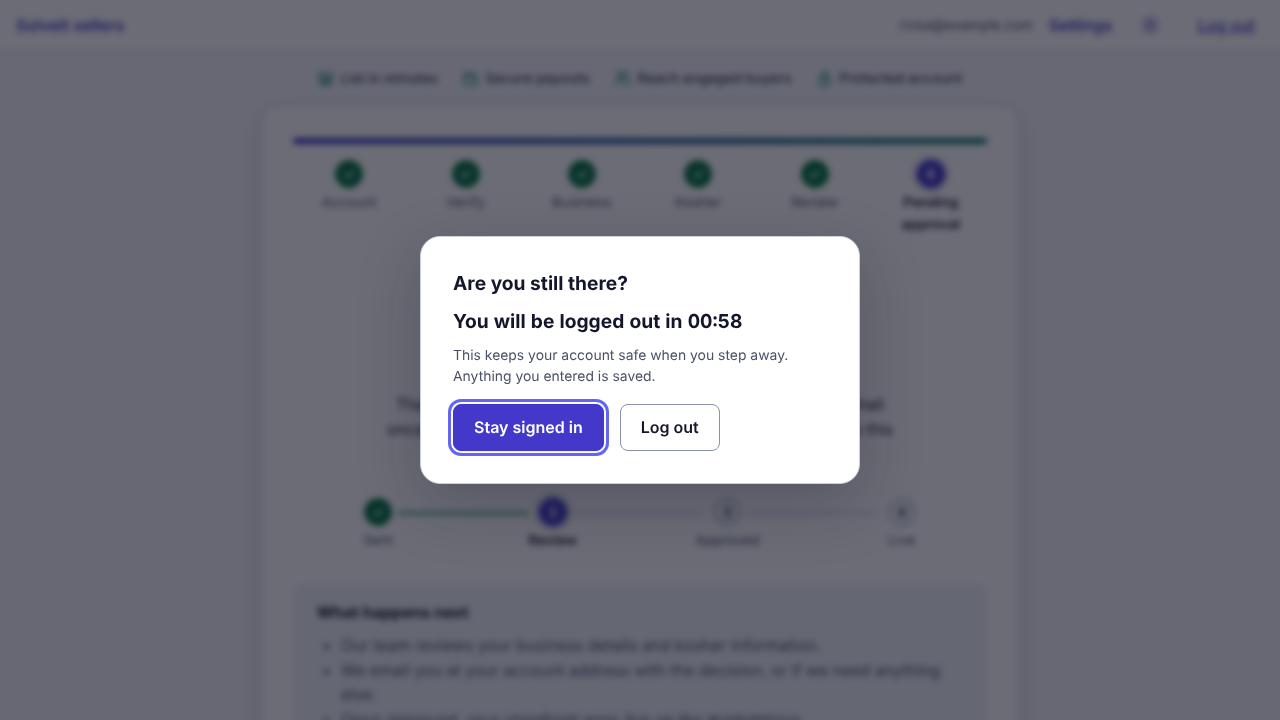
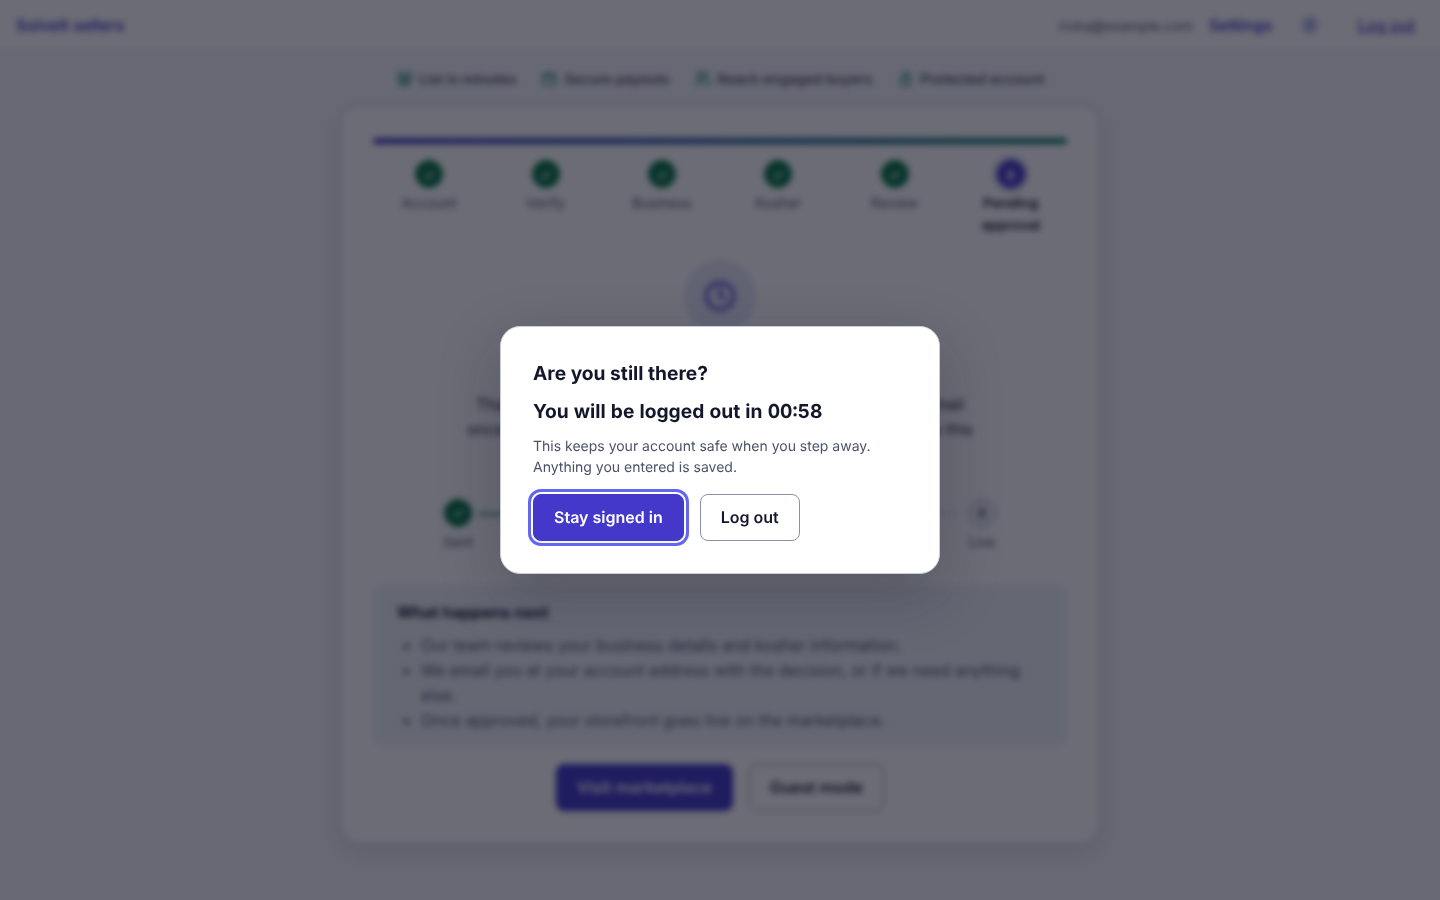
Review fixes: external theme script (CSP-safe), robust recovery-code download, error boundary for lazy routes, single header/toggle, forgot-password E2E race, pin uqr, extra screenshots
Claude-Session: https://claude.ai/code/session_018hZb8p3U4e1ZXzoHRqf6yf

diff --git a/e2e-ui/ui.spec.ts b/e2e-ui/ui.spec.ts
@@ -61,13 +61,15 @@ for (const [vp, size] of Object.entries(viewports)) {
         const { violations } = await new AxeBuilder({ page }).withTags(['wcag2a', 'wcag2aa', 'wcag21a', 'wcag21aa', 'wcag22aa']).analyze()
         const bad = violations.filter((v) => v.impact === 'serious' || v.impact === 'critical')
         expect(bad.map((v) => `${v.id}: ${v.nodes.map((n) => n.target.join(' ')).join(' | ')}`)).toEqual([])
-        if (SHOTS && theme === 'light') await page.screenshot({ path: `${SHOTS}/${s.name}-${vp}.png`, fullPage: true })
+        if (SHOTS && (theme === 'light' || ['login', 'signup', 'settings-security', 'pending'].includes(s.name)))
+          await page.screenshot({ path: `${SHOTS}/${s.name}-${vp}${theme === 'dark' ? '-dark' : ''}.png`, fullPage: true })
       })
     }
   }
 }
 
-test('idle-logout modal is accessible and shows a countdown', async ({ page }) => {
+for (const [vp, size] of Object.entries(viewports)) test(`idle-logout modal @${vp} is accessible and shows a countdown`, async ({ page }) => {
+  await page.setViewportSize(size)
   await page.emulateMedia({ reducedMotion: 'reduce' })
   await mock(page, { authed: true, status: 'PendingReview', config: { idleTimeoutMinutes: 1, warningSeconds: 59 } })
   await page.goto('/signup/pending')
@@ -76,15 +78,40 @@ test('idle-logout modal is accessible and shows a countdown', async ({ page }) =
   await expect(dlg).toContainText(/You will be logged out in 00:\d\d/)
   const { violations } = await new AxeBuilder({ page }).withTags(['wcag2a', 'wcag2aa', 'wcag22aa']).analyze()
   expect(violations.filter((v) => v.impact === 'serious' || v.impact === 'critical')).toEqual([])
-  if (SHOTS) await page.screenshot({ path: `${SHOTS}/idle-modal-desktop.png` })
+  if (SHOTS) await page.screenshot({ path: `${SHOTS}/idle-modal-${vp}.png` })
 })
 
-test('dark-mode toggle persists', async ({ page }) => {
+test('dark-mode toggle flips the theme and persists across reloads', async ({ page }) => {
+  await page.emulateMedia({ colorScheme: 'light' })
   await mock(page)
   await page.goto('/login')
+  const html = page.locator('html')
   await page.getByRole('button', { name: 'Dark mode' }).click()
-  await expect(page.locator('html')).toHaveAttribute('data-theme', /dark|light/)
-  const t = await page.locator('html').getAttribute('data-theme')
+  await expect(html).toHaveAttribute('data-theme', 'dark')
   await page.reload()
-  await expect(page.locator('html')).toHaveAttribute('data-theme', t!)
+  await expect(html).toHaveAttribute('data-theme', 'dark')
+  await page.getByRole('button', { name: 'Dark mode' }).click()
+  await expect(html).toHaveAttribute('data-theme', 'light')
+  await page.reload()
+  await expect(html).toHaveAttribute('data-theme', 'light')
+})
+
+// README CSP: script-src 'self' blocks inline scripts, so the saved theme must be applied by an external script.
+const README_CSP = "default-src 'self'; script-src 'self' https://challenges.cloudflare.com; frame-src https://challenges.cloudflare.com; connect-src 'self'; frame-ancestors 'none'"
+test('saved theme is applied under the README CSP (production build, no inline-script violations)', async ({ page }) => {
+  const blocked: string[] = []
+  page.on('console', (m) => { if (/Content Security Policy/i.test(m.text()) && /script/i.test(m.text())) blocked.push(m.text()) })
+  await page.emulateMedia({ colorScheme: 'light' })
+  await mock(page)
+  await page.route('http://localhost:4173/**', async (route) => {
+    if (route.request().resourceType() !== 'document') return route.fallback()
+    const res = await route.fetch()
+    await route.fulfill({ response: res, headers: { ...res.headers(), 'content-security-policy': README_CSP } })
+  })
+  await page.goto('http://localhost:4173/login')
+  await page.getByRole('button', { name: 'Dark mode' }).click()
+  await expect(page.locator('html')).toHaveAttribute('data-theme', 'dark')
+  await page.reload()
+  await expect(page.locator('html')).toHaveAttribute('data-theme', 'dark')
+  expect(blocked).toEqual([])
 })

diff --git a/src/components/review-fixes.test.tsx b/src/components/review-fixes.test.tsx
@@ -1,0 +1,68 @@
+import { lazy, Suspense } from 'react'
+import { fireEvent, render, screen } from '@testing-library/react'
+import { MemoryRouter } from 'react-router-dom'
+import { afterEach, describe, expect, it, vi } from 'vitest'
+import { AppHeaderContext, Shell, ThemeToggle } from './ui'
+import { ErrorBoundary } from './ErrorBoundary'
+import { RecoveryCodes } from '../pages/Settings'
+
+afterEach(() => { vi.restoreAllMocks(); vi.useRealTimers(); localStorage.clear(); delete document.documentElement.dataset.theme })
+
+describe('theme', () => {
+  it('applies the saved choice when the inline script has not set data-theme (CSP blocks it)', () => {
+    localStorage.setItem('solvelt-theme', 'dark')
+    delete document.documentElement.dataset.theme
+    render(<ThemeToggle />)
+    expect(document.documentElement.dataset.theme).toBe('dark')
+    expect(screen.getByRole('button', { name: 'Dark mode' })).toHaveAttribute('aria-pressed', 'true')
+  })
+})
+
+describe('recovery codes download', () => {
+  it('puts every code in the file, clicks an attached link and revokes the URL only afterwards', async () => {
+    vi.useFakeTimers()
+    const codes = ['AAAAA-11111', 'BBBBB-22222', 'CCCCC-33333']
+    let blob: Blob | undefined
+    const order: string[] = []
+    URL.createObjectURL = vi.fn((b: Blob) => { blob = b; return 'blob:test' })
+    URL.revokeObjectURL = vi.fn(() => { order.push('revoke') })
+    vi.spyOn(HTMLAnchorElement.prototype, 'click').mockImplementation(function (this: HTMLAnchorElement) {
+      order.push(document.body.contains(this) ? 'click-attached' : 'click-detached')
+    })
+    render(<RecoveryCodes codes={codes} onDone={() => {}} />)
+    fireEvent.click(screen.getByRole('button', { name: /Download/ }))
+    expect(order).toEqual(['click-attached'])
+    expect(URL.revokeObjectURL).not.toHaveBeenCalled()
+    vi.advanceTimersByTime(1000)
+    expect(order).toEqual(['click-attached', 'revoke'])
+    vi.useRealTimers() // FileReader needs real timers
+    const text = await new Promise<string>((res) => { const r = new FileReader(); r.onload = () => res(String(r.result)); r.readAsText(blob!) })
+    for (const c of codes) expect(text).toContain(c)
+    expect(document.querySelector('a[download]')).toBeNull() // cleaned up
+  })
+})
+
+describe('error boundary', () => {
+  it('shows a Reload fallback when a lazy route chunk fails to load', async () => {
+    vi.spyOn(console, 'error').mockImplementation(() => {})
+    const Broken = lazy(() => Promise.reject(new Error('Failed to fetch dynamically imported module')))
+    render(<ErrorBoundary><Suspense fallback="loading"><Broken /></Suspense></ErrorBoundary>)
+    expect(await screen.findByRole('button', { name: 'Reload' })).toBeInTheDocument()
+    expect(screen.getByRole('alert')).toHaveTextContent(/could not load/i)
+  })
+})
+
+describe('signed-in layout', () => {
+  const shell = (inHeader: boolean) => render(
+    <MemoryRouter><AppHeaderContext.Provider value={inHeader}><Shell><p>x</p></Shell></AppHeaderContext.Provider></MemoryRouter>)
+  it('renders one theme toggle and one logo under the app header', () => {
+    shell(true)
+    expect(screen.queryByRole('button', { name: 'Dark mode' })).toBeNull()
+    expect(screen.queryByRole('link', { name: 'Solvelt home' })).toBeNull()
+  })
+  it('renders them in the public shell', () => {
+    shell(false)
+    expect(screen.getAllByRole('button', { name: 'Dark mode' })).toHaveLength(1)
+    expect(screen.getAllByRole('link', { name: 'Solvelt home' })).toHaveLength(1)
+  })
+})

diff --git a/src/components/ui.tsx b/src/components/ui.tsx
@@ -1,4 +1,4 @@
-import { Children, forwardRef, useEffect, useId, useState, type ButtonHTMLAttributes, type InputHTMLAttributes, type ReactNode } from 'react'
+import { Children, createContext, forwardRef, useContext, useEffect, useId, useState, type ButtonHTMLAttributes, type InputHTMLAttributes, type ReactNode } from 'react'
 import { Link, useLocation } from 'react-router-dom'
 import { passwordChecks } from '../lib/password'
 
@@ -86,9 +86,12 @@ export function Icon({ name, label }: { name: IconName; label?: string }) {
 
 /* ---- theme (system by default, manual override persisted) ---- */
 const systemDark = () => typeof matchMedia === 'function' && matchMedia('(prefers-color-scheme: dark)').matches
+function savedTheme(): 'light' | 'dark' | null {
+  try { const t = localStorage.getItem('solvelt-theme'); return t === 'light' || t === 'dark' ? t : null } catch { return null }
+}
 export function ThemeToggle() {
   const [dark, setDark] = useState(() => {
-    const t = document.documentElement.dataset.theme
+    const t = document.documentElement.dataset.theme ?? savedTheme()
     return t ? t === 'dark' : systemDark()
   })
   useEffect(() => {
@@ -110,9 +113,13 @@ export function Logo() {
   return <Link to="/" className="logo" aria-label="Solvelt home"><span className="logo-mark"><Icon name="shield" /></span><span>Solvelt</span></Link>
 }
 
+/** True inside the signed-in layout, which renders its own header (so Shell must not add a second logo + theme toggle). */
+export const AppHeaderContext = createContext(false)
+
 /** Page shell: brand panel (desktop, auth screens) + top bar with theme toggle. */
 export function Shell({ children, split }: { children: ReactNode; split?: boolean }) {
   const { pathname } = useLocation()
+  const hasAppHeader = useContext(AppHeaderContext)
   const cross = !split ? null : pathname.startsWith('/signup') ? { q: 'Already selling?', to: '/login', t: 'Sign in' } : pathname === '/login' ? { q: 'New to Solvelt?', to: '/signup', t: 'Start selling' } : null
   return (
     <div className={split ? 'shell split' : 'shell'}>
@@ -139,7 +146,7 @@ export function Shell({ children, split }: { children: ReactNode; split?: boolea
         </aside>
       )}
       <div className="shell-main">
-        <div className="topbar">{split ? <span className="logo-mini-spacer" /> : null}<Logo /><span className="spacer" />{cross && <span className="topbar-cross"><span className="topbar-q">{cross.q}</span> <Link className="btn topbar-cta" to={cross.to}>{cross.t}</Link></span>}<ThemeToggle /></div>
+        {!hasAppHeader && <div className="topbar">{split ? <span className="logo-mini-spacer" /> : null}<Logo /><span className="spacer" />{cross && <span className="topbar-cross"><span className="topbar-q">{cross.q}</span> <Link className="btn topbar-cta" to={cross.to}>{cross.t}</Link></span>}<ThemeToggle /></div>}
         <div className="shell-content">{children}</div>
       </div>
     </div>

diff --git a/src/pages/Settings.tsx b/src/pages/Settings.tsx
@@ -237,14 +237,16 @@ function TwoFactor({ me, reload }: { me: Me; reload: () => Promise<void> }) {
   )
 }
 
-function RecoveryCodes({ codes, onDone }: { codes: string[]; onDone: () => void }) {
+export function RecoveryCodes({ codes, onDone }: { codes: string[]; onDone: () => void }) {
   const [copied, setCopied] = useState(false)
   const [saved, setSaved] = useState(false)
   const text = codes.join('\n')
   const copy = async () => { try { await navigator.clipboard.writeText(text); setCopied(true) } catch { setCopied(false) } }
   const download = () => {
     const url = URL.createObjectURL(new Blob([`Solvelt recovery codes\nEach code works once.\n\n${text}\n`], { type: 'text/plain' }))
-    const a = document.createElement('a'); a.href = url; a.download = 'solvelt-recovery-codes.txt'; a.click(); URL.revokeObjectURL(url)
+    const a = document.createElement('a'); a.href = url; a.download = 'solvelt-recovery-codes.txt'
+    document.body.appendChild(a); a.click(); a.remove()
+    setTimeout(() => URL.revokeObjectURL(url), 1000) // revoking synchronously can cancel the download in some browsers
   }
   return (
     <div className="alert info recovery">

diff --git a/src/components/RequireAuth.tsx b/src/components/RequireAuth.tsx
@@ -2,7 +2,7 @@ import { Link, Navigate, Outlet, useLocation, useNavigate, useSearchParams } fro
 import { safeNext } from '../lib/safeNext'
 import { useAuth } from '../auth'
 import { IdleGuard } from './IdleGuard'
-import { Spinner, ThemeToggle } from './ui'
+import { AppHeaderContext, Spinner, ThemeToggle } from './ui'
 import { PasskeyOffer } from '../pages/PasskeyOffer'
 
 /** Route guard: anonymous visitors go to /login?next=<original path>. Mounts the inactivity guard for signed-in users. */
@@ -11,7 +11,7 @@ export function RequireAuth() {
   const loc = useLocation()
   if (status === 'loading') return <div className="center"><Spinner /></div>
   if (status === 'anon') return <Navigate to={`/login?${logoutReason === 'idle' ? 'reason=idle&' : ''}next=${encodeURIComponent(loc.pathname + loc.search)}`} replace />
-  return (<><IdleGuard /><PasskeyOffer /><AppHeader /><Outlet /></>)
+  return (<><IdleGuard /><PasskeyOffer /><AppHeader /><AppHeaderContext.Provider value><Outlet /></AppHeaderContext.Provider></>)
 }
 
 function AppHeader() {

diff --git a/src/App.tsx b/src/App.tsx
@@ -1,6 +1,7 @@
 import { lazy, Suspense } from 'react'
 import { Route, Routes, Navigate } from 'react-router-dom'
 import { Spinner } from './components/ui'
+import { ErrorBoundary } from './components/ErrorBoundary'
 import { RedirectIfAuthed, RequireAuth } from './components/RequireAuth'
 import LoginPage from './pages/Login'
 import { ForgotPasswordPage, ResetPasswordPage } from './pages/Recovery'
@@ -20,6 +21,7 @@ export default function App() {
   return (
     <>
       <a href="#page-title" className="skip">Skip to content</a>
+      <ErrorBoundary>
       <Suspense fallback={<div className="center"><Spinner /></div>}>
       <Routes>
         <Route path="/login" element={<RedirectIfAuthed><LoginPage /></RedirectIfAuthed>} />
@@ -42,6 +44,7 @@ export default function App() {
         <Route path="*" element={<Navigate to="/" replace />} />
       </Routes>
       </Suspense>
+      </ErrorBoundary>
     </>
   )
 }

diff --git a/src/components/ErrorBoundary.tsx b/src/components/ErrorBoundary.tsx
@@ -1,0 +1,17 @@
+import { Component, type ReactNode } from 'react'
+
+/** Catches render/chunk-load failures (typically a lazy route after a new deploy) and offers a reload instead of a blank screen. */
+export class ErrorBoundary extends Component<{ children: ReactNode }, { failed: boolean }> {
+  state = { failed: false }
+  static getDerivedStateFromError() { return { failed: true } }
+  render() {
+    if (!this.state.failed) return this.props.children
+    return (
+      <main className="card" role="alert">
+        <h1 tabIndex={-1}>Something went wrong</h1>
+        <p>This page could not load. This usually happens right after we release an update. Reloading fixes it, and your saved progress is kept.</p>
+        <button type="button" className="btn primary" onClick={() => window.location.reload()}>Reload</button>
+      </main>
+    )
+  }
+}

diff --git a/playwright.ui.config.ts b/playwright.ui.config.ts
@@ -8,5 +8,9 @@ export default defineConfig({
   retries: process.env.CI ? 1 : 0,
   reporter: [['list']],
   use: { baseURL: 'http://localhost:5173', launchOptions: process.env.PW_CHROMIUM_PATH ? { executablePath: process.env.PW_CHROMIUM_PATH } : {} },
-  webServer: { command: 'npm run dev -- --host localhost', url: 'http://localhost:5173', reuseExistingServer: !process.env.CI },
+  webServer: [
+    { command: 'npm run dev -- --host localhost', url: 'http://localhost:5173', reuseExistingServer: !process.env.CI },
+    // production build, for tests that need the real index.html (e.g. under the README's CSP; the dev server injects inline scripts)
+    { command: 'npm run build && npm run preview -- --host localhost --port 4173 --strictPort', url: 'http://localhost:4173', reuseExistingServer: !process.env.CI, timeout: 120_000 },
+  ],
 })

diff --git a/e2e/portal.spec.ts b/e2e/portal.spec.ts
@@ -136,6 +136,9 @@ test('forgot and reset password', async ({ page, request }) => {
   const s = await createSeller(request)
   await page.goto('/login')
   await page.getByRole('link', { name: 'Forgot password?' }).click()
+  // Wait for the route change first: until then getByLabel('Email') still resolves to the outgoing Login form,
+  // the fill is lost on unmount and the Forgot form is submitted empty (no request is ever sent).
+  await expect(page.getByRole('heading', { name: 'Reset your password' })).toBeVisible()
   await page.getByLabel('Email').fill(s.email)
   const [forgot] = await Promise.all([
     page.waitForResponse((r) => r.url().includes('/auth/forgot-password')),

diff --git a/src/styles.css b/src/styles.css
@@ -151,7 +151,6 @@ pre { background: var(--surface-2); padding: var(--s2); border-radius: var(--r-s
 .lockout { font-variant-numeric: tabular-nums; }
 @media (prefers-reduced-motion: reduce) { *, *::before, *::after { animation-duration: .001ms !important; animation-iteration-count: 1 !important; transition-duration: .001ms !important; } }
 
-.app-header ~ .shell .topbar { display: none; }
 .app-header a { text-decoration: none; font-weight: 600; } .app-header { flex-wrap: wrap; }
 
 /* ---- marketplace look: seller panel, storefront mock, top-bar cross link ---- */

diff --git a/index.html b/index.html
@@ -5,7 +5,7 @@
     <meta name="viewport" content="width=device-width, initial-scale=1.0" />
     <meta name="color-scheme" content="light dark" />
     <meta name="theme-color" content="#4338ca" />
-    <script>try{var t=localStorage.getItem("solvelt-theme");if(t==="light"||t==="dark")document.documentElement.dataset.theme=t}catch(e){}</script>
+    <script src="/theme.js"></script>
     <title>Solvelt seller portal</title>
   </head>
   <body>

diff --git a/public/theme.js b/public/theme.js
@@ -1,0 +1,1 @@
+try{var t=localStorage.getItem("solvelt-theme");if(t==="light"||t==="dark")document.documentElement.dataset.theme=t}catch{}
